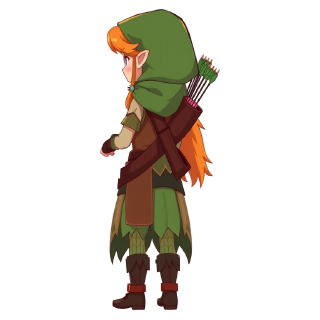
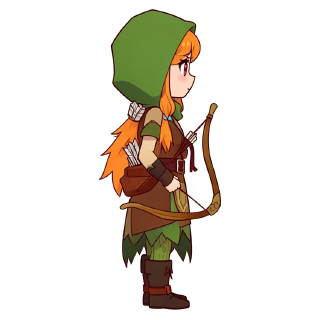
Echo Dungeon v0.8: 8방향 캐릭터, 카드 아이콘

Changed region(s): [[0.3125, 0.0312, 0.6875, 0.9688]]

diff --git a/echo-dungeon/www/js/data.js b/echo-dungeon/www/js/data.js
@@ -1,7 +1,7 @@
 import { S } from './state.js';
 import { mulberry32, dateKey } from './util.js';
 
-export const VERSION = '0.7.1';
+export const VERSION = '0.8.0';
 export const W = 360, H = 640;
 // 월드는 화면(W×H)보다 훨씬 넓고, 카메라가 영웅을 따라간다
 export const ARENA = { x: 0, y: 0, w: 720, h: 1100 };

diff --git a/echo-dungeon/README.md b/echo-dungeon/README.md
@@ -3,10 +3,10 @@
 60초짜리 한 손 로그라이트. 한 판이 끝나면 **내 움직임이 메아리(유령)로 녹화**되어 다음 판에서 함께 싸우고,
 **쓰러지면 나를 쓰러뜨린 몬스터가 내 이름을 달고 진화**해 다음 판에 나타난다.
 
-## 게임 구성 (v0.7)
+## 게임 구성 (v0.8)
 - **직업 3종**: 타이틀의 캐릭터 단추를 눌러 별도 선택 화면에서 고른다(능력치 막대 포함). 검사(근접·체력 높음·넓은 관통 베기), 궁사(원거리·체력 낮음·빠른 관통 화살), 법사(중거리·터지는 마법 구슬). 메아리는 그 판에 쓴 직업 그대로 재현된다.
 - **카드 72장**: 기존 22장 + 새 카드 50장 + 전설 3장(불사조의 깃·천벌·만능의 왕관, 가끔만 나오고 효과가 확실히 크다). 화상·유도·도탄·처형·오라·충격파·재생·회피·메아리 강화 등. 행운 카드는 희귀 이상이 더 자주 나오게 한다.
-- **캐릭터 그림**: 플레이어 캐릭터는 앞·뒤·옆모습을 한 번에 그려 같은 캐릭터로 통일했다. 몬스터·보스는 정면 한 장을 자세히 그려 모든 방향에 쓴다.
+- **캐릭터 그림 (8방향)**: 플레이어 캐릭터는 정면 그림을 기준으로 FLUX.2(기준 그림을 주면 같은 캐릭터를 다른 각도로 그린다)에게 비스듬한 앞·옆·비스듬한 뒤·뒤를 그리게 해서 같은 캐릭터로 통일했다. 왼쪽은 좌우 반전. 이동 방향에 따라 8방향 중 하나를 고른다. 몬스터·보스는 정면 한 장을 모든 방향에 쓴다. 다시 만들기: `node tools/gen-art.mjs --views hero archer wizard` (`--sixteen`은 중간 각도 4장 추가용, 아직 게임이 쓰지 않는다).
 - **잘 보이는 공격**: 원거리 탄은 어두운 테두리와 후광, 꼬리를 달았고, 적의 탄은 붉은 위험 고리와 꼬리로 구분된다. 해골 마법사는 쏘기 직전 조준선이 깜빡인다.
 - **움직임**: 한 장짜리 캐릭터 그림을 머리·몸통·다리로 잘라 움직이는 컷아웃 애니메이션. 다리를 번갈아 딛고, 몸이 튀고, 머리가 한 박자 늦게 따라온다. 이동 방향에 따라 앞·뒤·옆모습이 바뀌고, 박쥐는 날갯짓, 슬라임은 통통 뛴다.
 - **손맛**: 때릴 때는 맞은 방향으로 뻗는 섬광, 넉백, 흰 실루엣 번쩍임, 치명타 히트스톱, 처치 고리와 불꽃, 콤보. 맞을 때는 빨간 실루엣, 밀려남, 화면 붉은 번쩍임과 흔들림.
